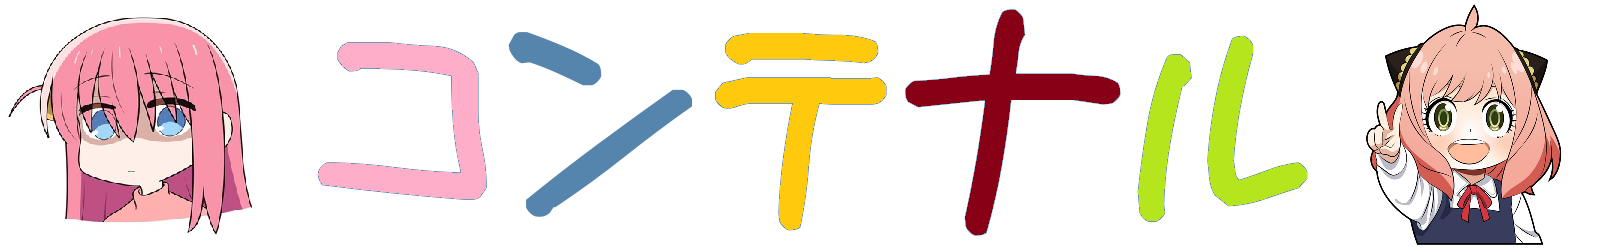
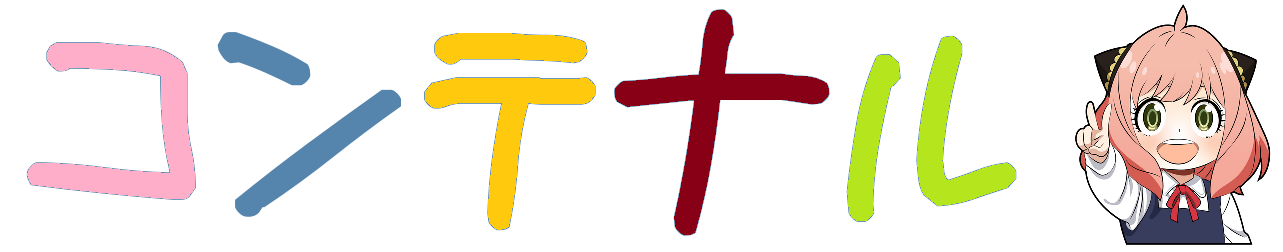
anya GIF

diff --git a/resources/views/home.blade.php b/resources/views/home.blade.php
@@ -11,11 +11,20 @@
 </head>
 <body>
     <div class="container text-center">
+        <!-- <div class="row justify-content-center">
+            <img style="width: 25%;" src="https://aniyuki.com/wp-content/uploads/2022/05/aniyuki-anya-spy-x-family-12.gif" data-featherlight="image">
+        </div> -->
+
         <div class="row justify-content-center">
+            <div class="col-3">
+                <img style="width: 100%;" src="https://aniyuki.com/wp-content/uploads/2022/05/aniyuki-anya-spy-x-family-9.gif" data-featherlight="image">
+            </div>
             <div class="col">
                 <img src="resources/image/kontenaru.png" style="width:100%">
             </div>
         </div>
+
+        <br>
 
         <div class="row justify-content-center">
             <div class="col-6">
@@ -29,6 +38,10 @@
                 <textarea class="form-control" id="result" style="height: 380px;" readonly>
                 </textarea>
             </div>
+        </div>
+
+        <div class="row justify-content-center">
+            <img src="https://aniyuki.com/wp-content/uploads/2022/05/aniyuki-anya-spy-x-family-12.gif" data-featherlight="image">
         </div>
 
         <!-- <div class="row justify-content-center">
